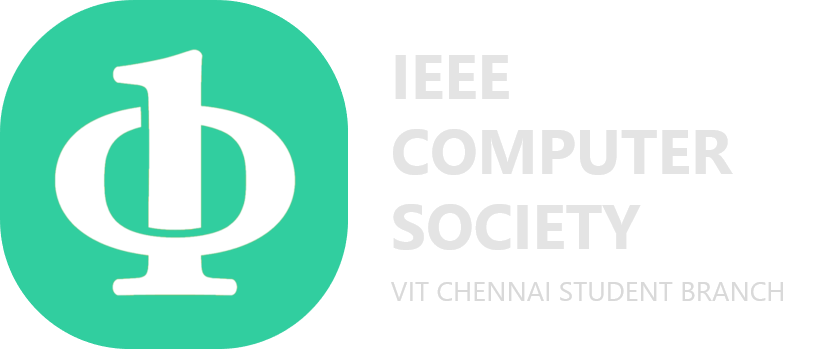
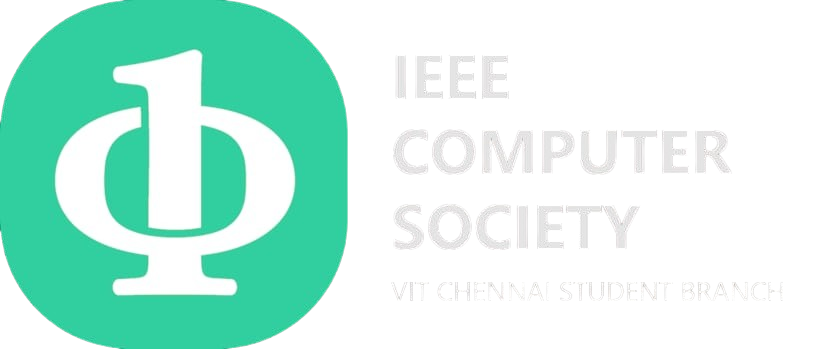
feat: footer completed

diff --git a/src/components/footer/Footer.tsx b/src/components/footer/Footer.tsx
@@ -28,7 +28,7 @@ const Footer = () => {
         <div className="flex flex-col md:flex-row lg:flex-row justify-center">
           {/* IEEE logo */}
           <div className="flex items-center justify-center basis-1/3">
-            <Image src="/logo.jpg" alt="logo2" width={280} height={80} />
+            <Image src="/compsoc.png" alt="logo2" width={280} height={80} />
           </div>
 
           {/* Menu */}
@@ -41,8 +41,8 @@ const Footer = () => {
             </h3>
             <ul className="space-y-2 text-center md:text-left">
               <TextButton href="#about">About</TextButton>
-              <TextButton href="#team">Our Team</TextButton>
-              <TextButton href="#events">Events</TextButton>
+              <TextButton href="https://ieeecsvitc.com/">Team</TextButton>
+              <TextButton href="#events">Event</TextButton>
               <TextButton href="#sponsors">Sponsors</TextButton>
               <TextButton href="#faq">FAQs</TextButton>
             </ul>
@@ -57,12 +57,11 @@ const Footer = () => {
               </div>
             </h3>
             <p className="text-center">
-              Kelambakkam - Vandallur
+              Kelambakkam - Vandalur Rd
               <br />
-              Rd, Rajan Nagar, Chennai,
+              Rajan Nagar, Chennai
               <br />
               Tamil Nadu 600127
-              <br />
             </p>
           </div>
 

diff --git a/src/components/footer/SocialsGrid.tsx b/src/components/footer/SocialsGrid.tsx
@@ -8,19 +8,24 @@ import {
   faDiscord,
   faGithub,
   faYoutube,
-  faMedium,
+  faDev,
 } from "@fortawesome/free-brands-svg-icons";
-import Link from "next/link";
 
 const socialMediaLinks = [
-  { href: "https://linkedin.com", icon: faLinkedin },
-  { href: "https://twitter.com", icon: faTwitter },
-  { href: "https://instagram.com", icon: faInstagram },
-  { href: "https://telegram.com", icon: faTelegram },
-  { href: "https://discord.com", icon: faDiscord },
-  { href: "https://github.com", icon: faGithub },
-  { href: "https://youtube.com", icon: faYoutube },
-  { href: "https://medium.com", icon: faMedium },
+  {
+    href: "https://www.linkedin.com/company/ieee-computer-society-vit-chennai",
+    icon: faLinkedin,
+  },
+  { href: "https://twitter.com/ieeecsvit", icon: faTwitter },
+  { href: "https://instagram.com/compsoc.vitcc/", icon: faInstagram },
+  { href: "https://t.me/IEEE_CS_VIT_Chennai", icon: faTelegram },
+  { href: "https://discord.gg/6vkY3kcZnE", icon: faDiscord },
+  { href: "https://github.com/ComputerSocietyVITC", icon: faGithub },
+  {
+    href: "https://www.youtube.com/channel/UCOgwDinZGau4rwv3swAe-nQ",
+    icon: faYoutube,
+  },
+  { href: "https://dev.to/ieeecsvitc", icon: faDev },
 ];
 
 const SocialMediaGrid: React.FC = () => {
